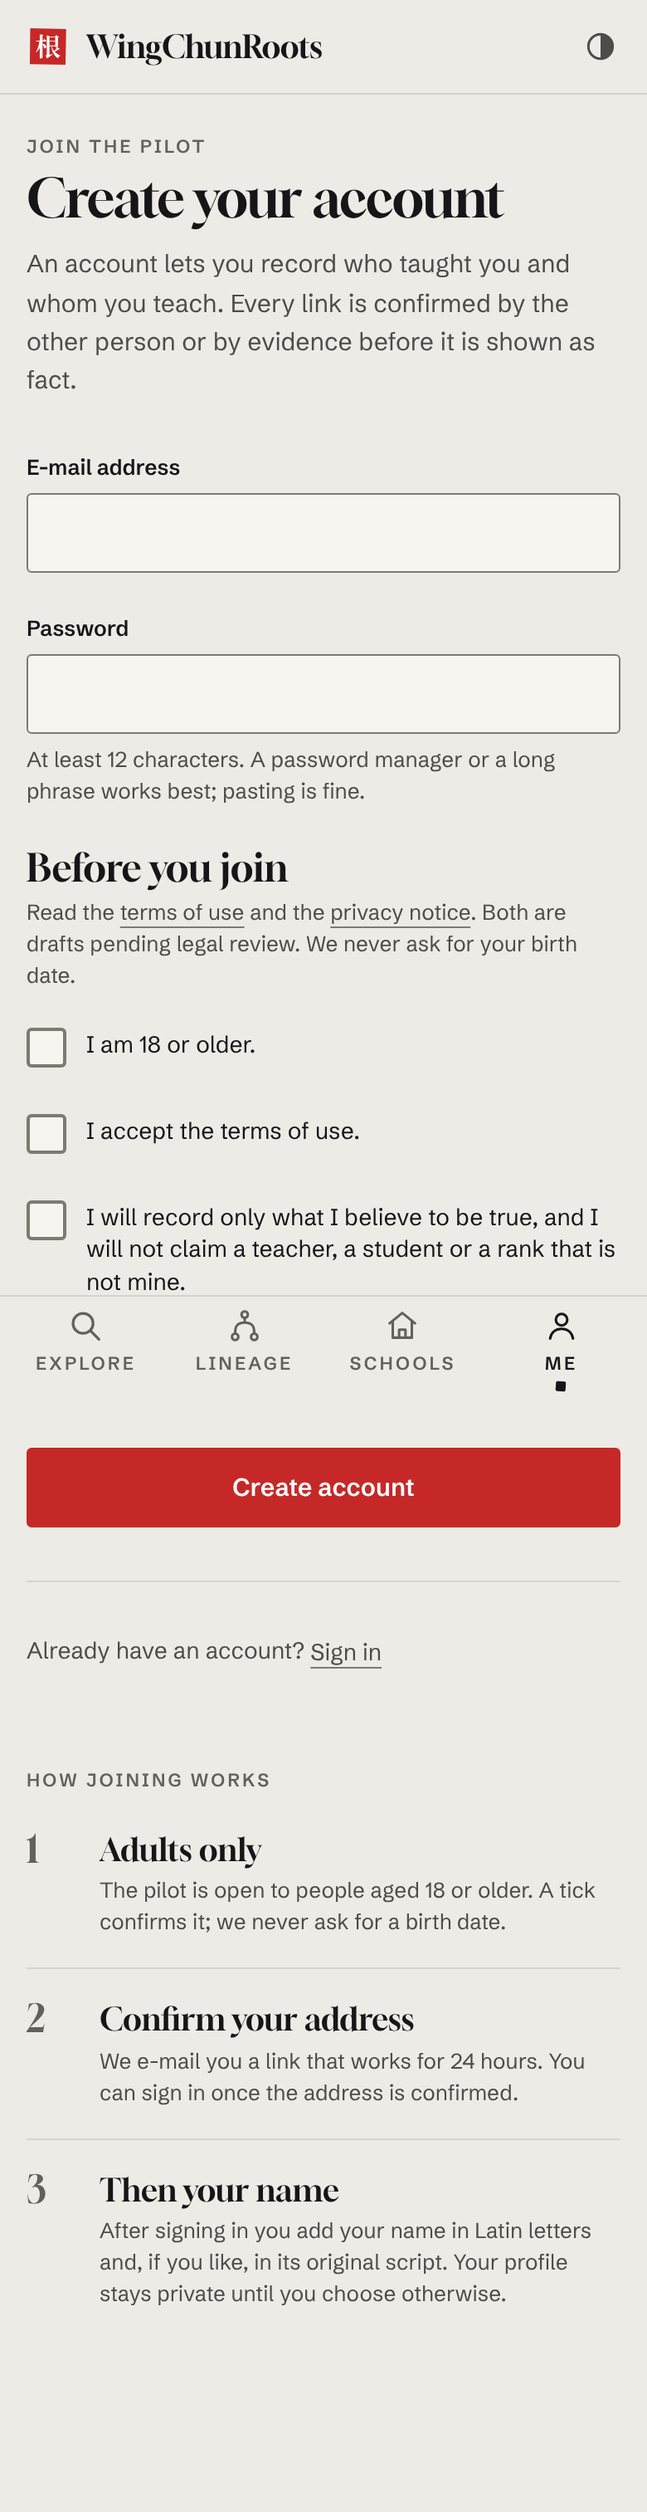
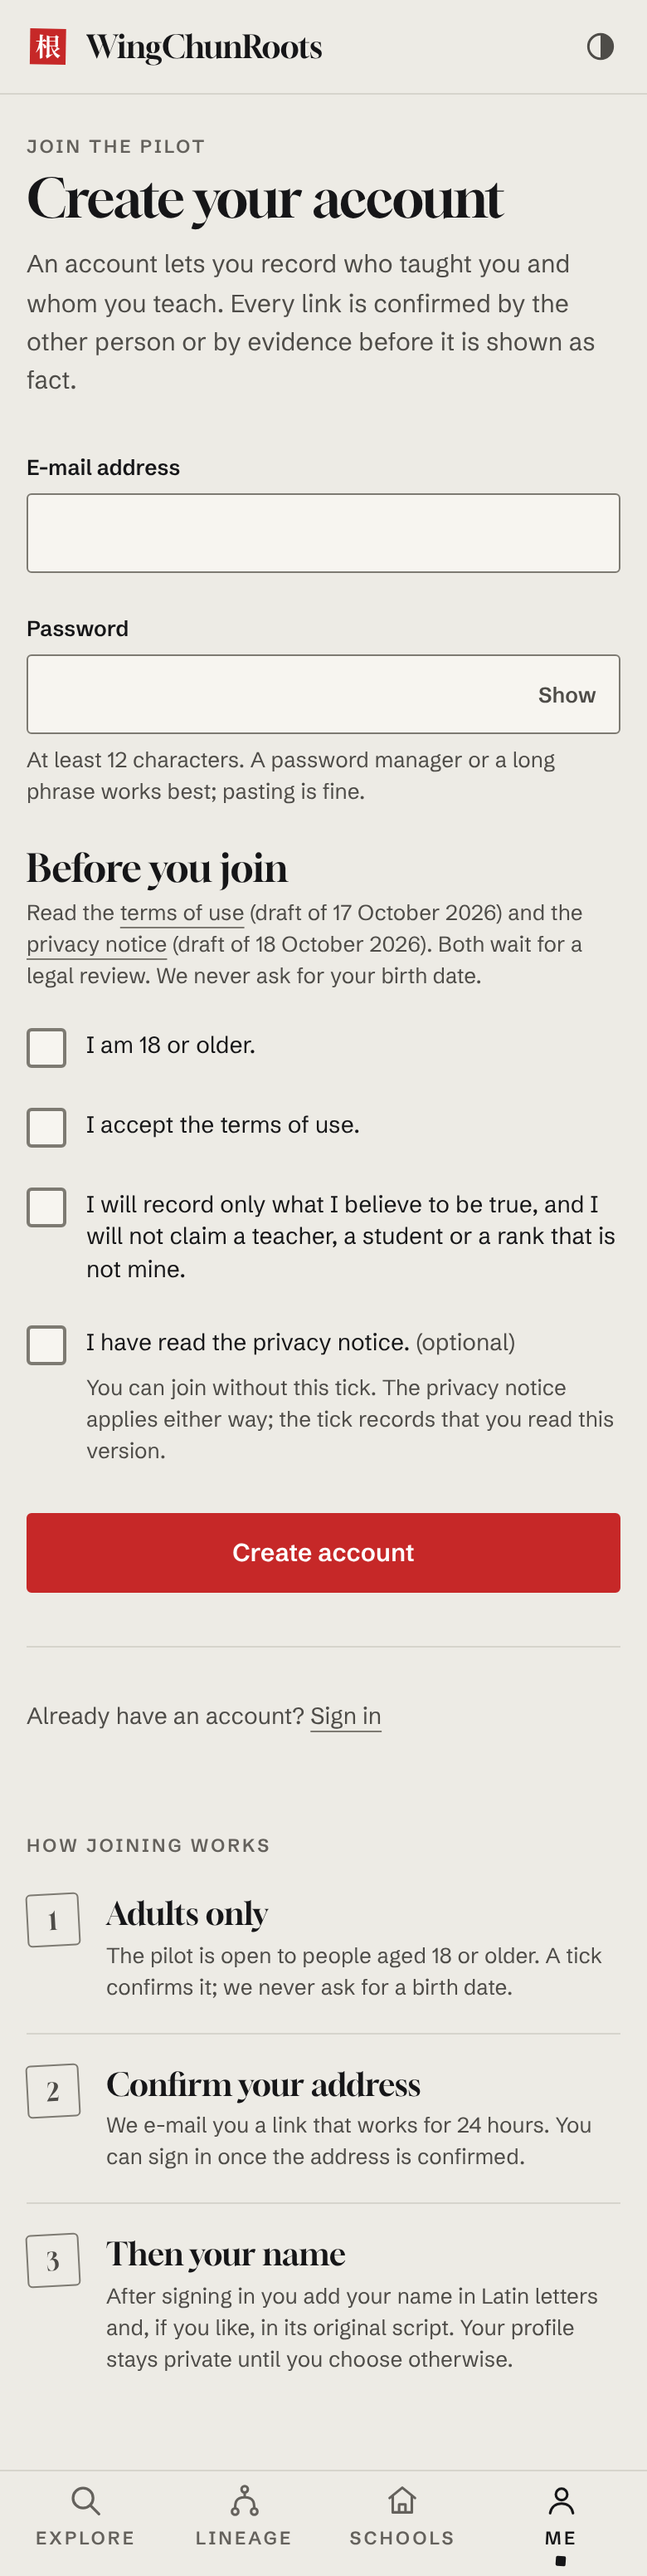
M02 fix round 1: screenshots, backup codes on narrow phones, design touches
- The backup code list no longer widens the page on phones (min-w-0, 9rem
  columns); the two-factor e2e test checks there is no sideways scroll.
- The TOTP key wraps between its groups, not inside one.
- Readings under a name keep normal letter spacing; /account without a profile
  no longer repeats "Your account" as eyebrow and heading.
- docs/screenshots/M02 retaken; the screenshots project puts the phone tab bar
  at the end of a full-page capture instead of over the content.

Claude-Session: https://claude.ai/code/session_01STyQUAPRBBmWDHTxvJbxAV

diff --git a/e2e/screenshots.spec.ts b/e2e/screenshots.spec.ts
@@ -33,6 +33,24 @@ for (const size of SCREEN_SIZES) {
           const response = await page.goto(route.path);
           expect(response?.status()).toBe(route.status);
           await page.evaluate(() => document.fonts.ready.then(() => undefined));
+          // A full-page capture draws the fixed phone tab bar where the first screen ends, over
+          // the content. Here it sits at the end of the page instead, in the room the page keeps
+          // for it (--page-clear-bottom), where a visitor who scrolls down sees it too.
+          await page.evaluate(() => {
+            document.getElementById('screenshot-tab-bar')?.remove();
+            const bar = document.querySelector<HTMLElement>('[data-tab-bar]');
+            if (!bar || getComputedStyle(bar).position !== 'fixed') return;
+            // A style rule, not the element's style: it holds when React renders the bar again.
+            const rule = document.createElement('style');
+            rule.id = 'screenshot-tab-bar';
+            const place = (top: number) => {
+              rule.textContent = `[data-tab-bar] { position: absolute !important; bottom: auto !important; top: ${top}px !important; }`;
+            };
+            place(0);
+            document.head.append(rule);
+            const origin = bar.getBoundingClientRect().top + window.scrollY;
+            place(document.documentElement.scrollHeight - bar.offsetHeight - origin);
+          });
           await page.screenshot({
             path: `docs/screenshots/${route.milestone}/${route.name}-${size.name}-${theme}.png`,
             fullPage: true,

diff --git a/src/app/account/security/page.tsx b/src/app/account/security/page.tsx
@@ -211,7 +211,7 @@ export default async function SecurityPage({ searchParams }: { searchParams: Sea
               <code
                 aria-labelledby="totp-key-label"
                 translate="no"
-                className="w-fit max-w-full rounded-sm border border-border-subtle bg-surface-2 px-3 py-2 font-mono text-lg tracking-wider break-all select-all"
+                className="w-fit max-w-full rounded-sm border border-border-subtle bg-surface-2 px-3 py-2 font-mono text-lg tracking-wider [overflow-wrap:anywhere] select-all"
               >
                 {setup.key}
               </code>
@@ -249,7 +249,7 @@ export default async function SecurityPage({ searchParams }: { searchParams: Sea
         <ol
           aria-label="Backup codes"
           translate="no"
-          className="grid max-w-[30rem] grid-cols-[repeat(auto-fill,minmax(11rem,1fr))] gap-x-6 gap-y-1.5 rounded-sm border border-border-subtle bg-surface-2 px-5 py-4"
+          className="grid min-w-0 max-w-[30rem] grid-cols-[repeat(auto-fill,minmax(9rem,1fr))] gap-x-6 gap-y-1.5 rounded-sm border border-border-subtle bg-surface-2 px-5 py-4"
         >
           {newCodes.map((code, i) => (
             <li key={code} className="flex items-baseline gap-3 whitespace-nowrap">

diff --git a/e2e/m02-auth.spec.ts b/e2e/m02-auth.spec.ts
@@ -706,6 +706,8 @@ test('@M02 two-factor setup survives a reload and asks to save the backup codes 
   const codes = await page.getByRole('list', { name: 'Backup codes' }).locator('li span.font-mono').allInnerTexts();
   expect(codes).toHaveLength(10);
   for (const code of codes) expect(code).toMatch(CODE_PATTERN);
+  // The list fits the window: no sideways scroll on a phone.
+  expect(await page.evaluate(() => document.documentElement.scrollWidth <= window.innerWidth)).toBe(true);
   await expect(page.getByRole('button', { name: 'Copy all codes' })).toBeVisible();
   await expect(page.getByRole('link', { name: 'Download as a text file' })).toHaveAttribute('download', 'wingchunroots-backup-codes.txt');
 

diff --git a/src/components/account/person-names.tsx b/src/components/account/person-names.tsx
@@ -45,7 +45,8 @@ export function NameLine({
         {original?.value ? <NameText name={original} className="text-[0.74em] text-fg-muted" /> : null}
       </span>
       {readings.length > 0 ? (
-        <span className="flex flex-wrap gap-x-3 font-sans text-sm text-fg-muted">
+        // tracking-normal: a display size above sets a tight letter spacing in px, which inherits.
+        <span className="flex flex-wrap gap-x-3 font-sans text-sm tracking-normal text-fg-muted">
           {readings.map((reading) => (
             <NameText key={reading.lang} name={reading} />
           ))}

diff --git a/src/app/account/page.tsx b/src/app/account/page.tsx
@@ -94,7 +94,8 @@ export default async function AccountPage() {
           </div>
         ) : null}
 
-        <p className="eyebrow">Your account</p>
+        {/* Without a profile the heading itself says "Your account". */}
+        <p className="eyebrow">{primary ? 'Your account' : 'Signed in'}</p>
         <h1 className="mt-2 text-feature [overflow-wrap:anywhere]">
           {primary ? <NameLine primary={primary.value} original={original} /> : <span className="font-display">Your account</span>}
         </h1>
